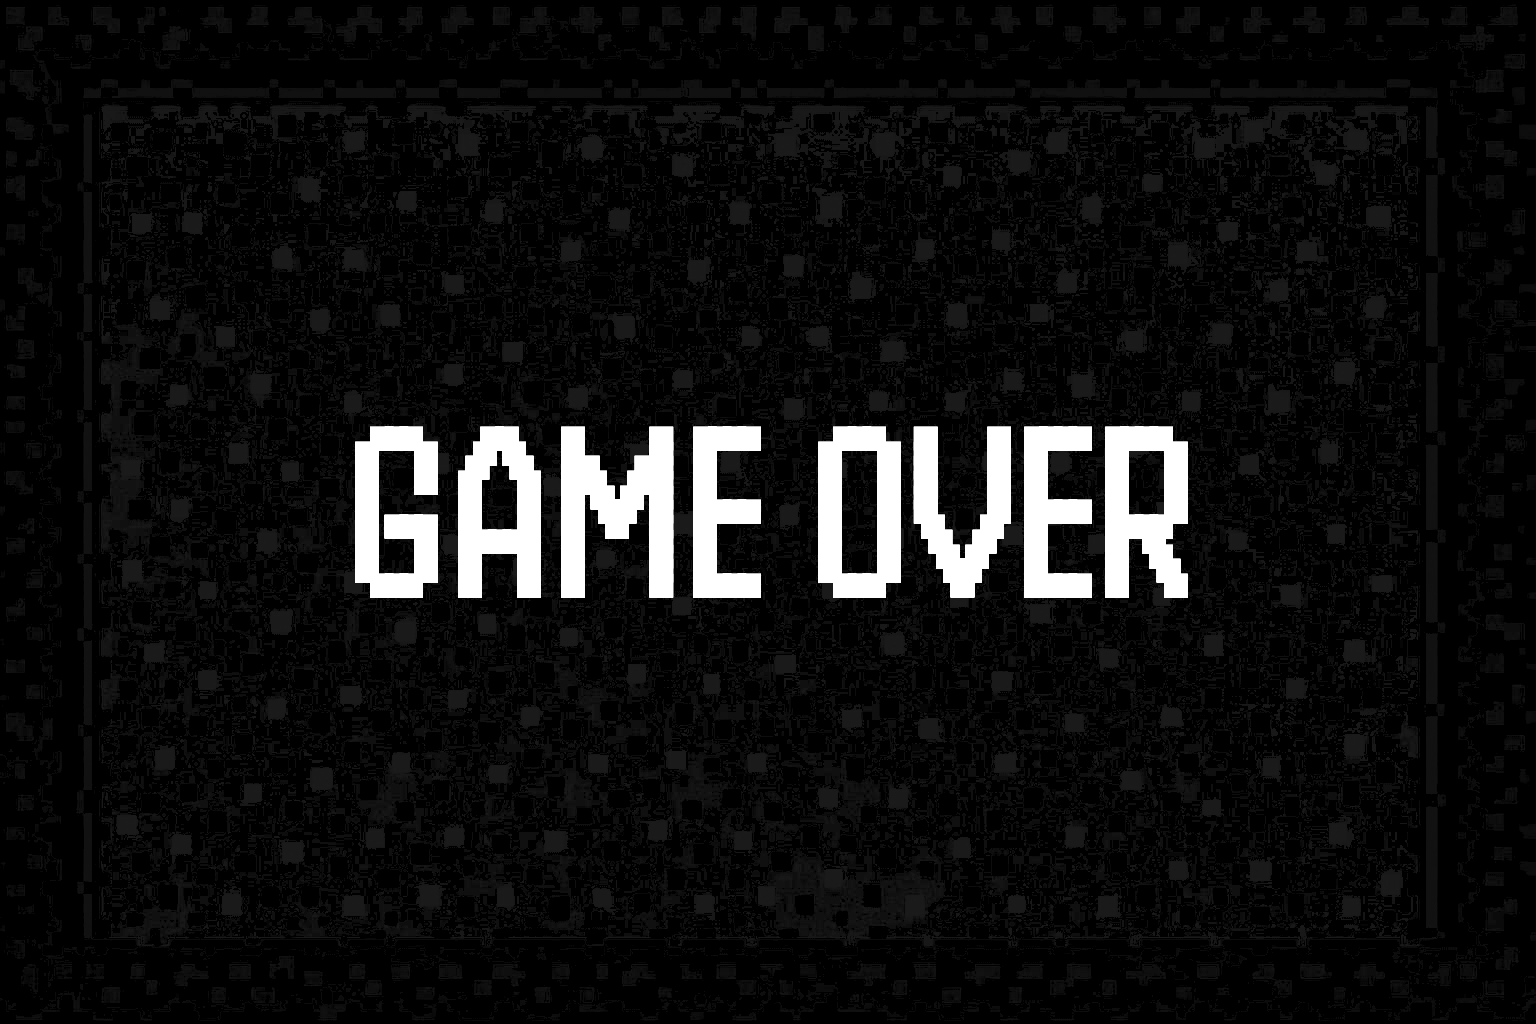
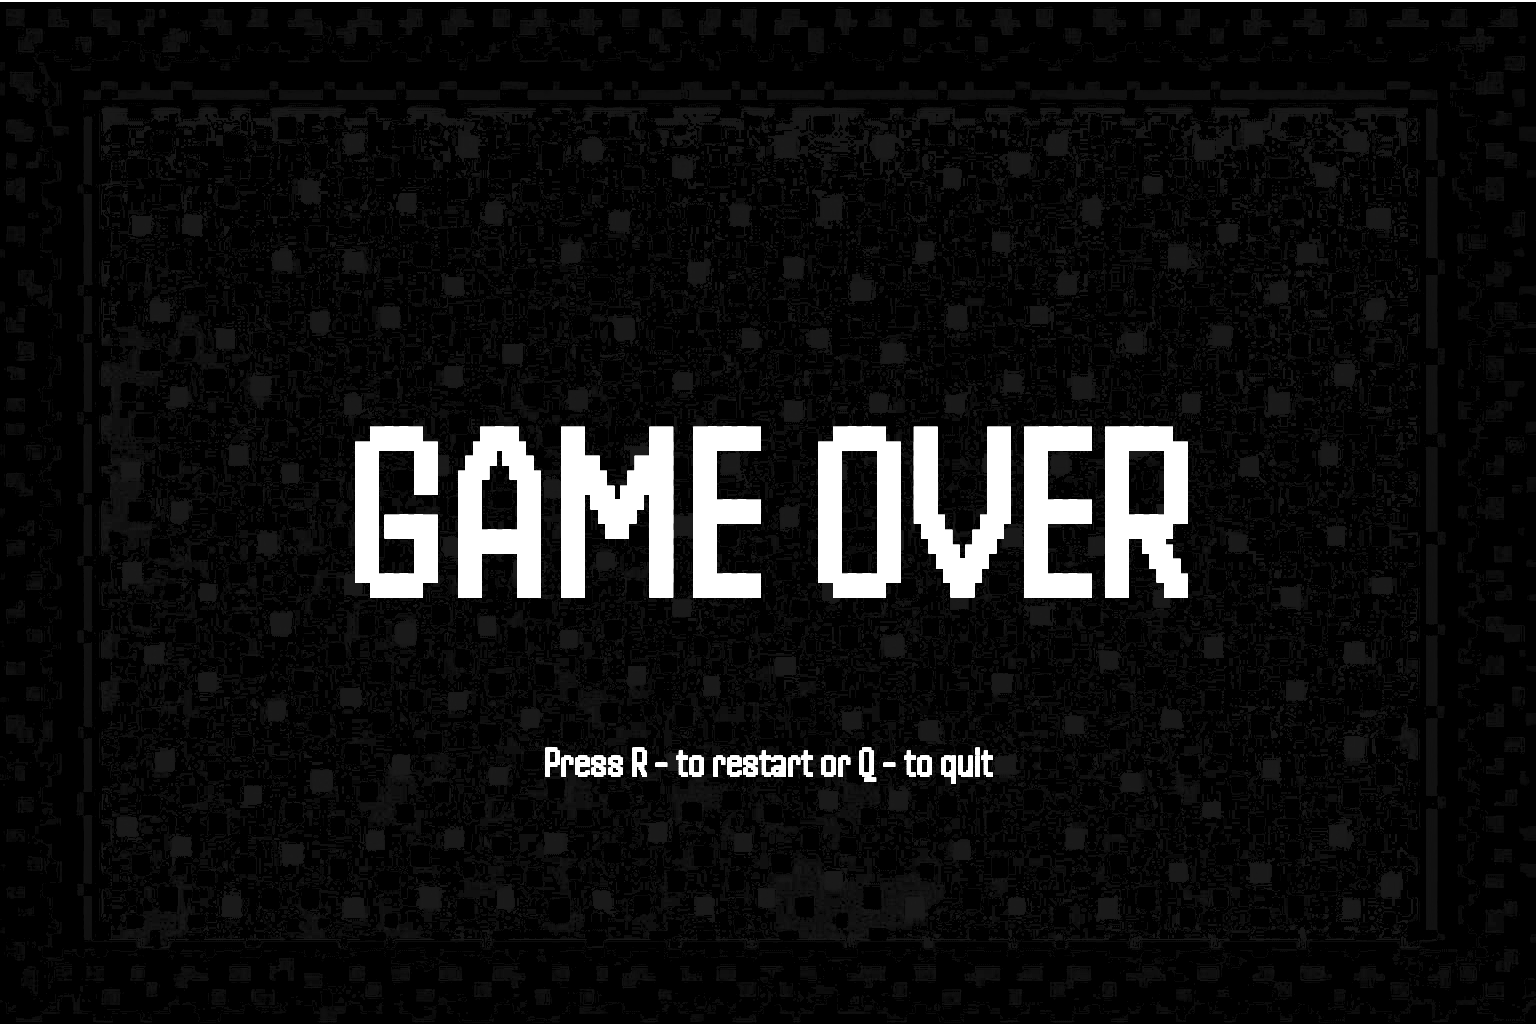
New images implemented, on gamastate, some corrections from the educators feedback

Changed region(s): [[0.3438, 0.7188, 0.6562, 0.7812], [0.5312, 0.125, 0.5625, 0.1562]]

diff --git a/src/com/codeforall/online/bullseye/game/GameState.java b/src/com/codeforall/online/bullseye/game/GameState.java
@@ -9,20 +9,22 @@ public class GameState {
 
     private Picture gameIntro;
     private Picture gameOver;
+    private Picture gameWin;
 
     public GameState() {
         this.gameIntro = new Picture(0,0, PREFIX +"introbackground.png");
         this.gameOver = new Picture(0,0, PREFIX + "gameoverbackground.png");
+        this.gameWin = new Picture(0,0, PREFIX + "youwin_bg.png");
     }
 
 
     public void displayIntro(Boolean show) {
 
-        if (show == true) {
+        if (show) {
             gameIntro.grow(-256, -128);
             gameIntro.translate(-256, -128);
 
-            //Ajusta o canvas
+            //Set the canvas size
             Canvas.setMaxX(gameIntro.getWidth() - 10);
             Canvas.setMaxY(gameIntro.getHeight() - 10);
 
@@ -38,11 +40,22 @@ public class GameState {
         gameOver.grow(-256, -128);
         gameOver.translate(-256, -128);
 
-        //Ajusta o canvas
+        //Set the canvas size
         Canvas.setMaxX(gameOver.getWidth() - 10);
         Canvas.setMaxY(gameOver.getHeight() - 10);
 
         gameOver.draw();
+    }
+
+    public void displayGameWin() {
+        gameWin.grow(-256, -128);
+        gameWin.translate(-256, -128);
+
+        //Set the canvas size
+        Canvas.setMaxX(gameWin.getWidth() - 10);
+        Canvas.setMaxY(gameWin.getHeight() - 10);
+
+        gameWin.draw();
     }
 
 

diff --git a/src/com/codeforall/online/bullseye/game/Game.java b/src/com/codeforall/online/bullseye/game/Game.java
@@ -6,7 +6,6 @@ import com.codeforall.online.bullseye.playables.target.Target;
 import com.codeforall.online.bullseye.playables.target.TargetFactory;
 import com.codeforall.simplegraphics.graphics.Color;
 import com.codeforall.simplegraphics.graphics.Text;
-import com.codeforall.simplegraphics.pictures.Picture;
 
 import java.util.ArrayList;
 import java.util.List;
@@ -18,7 +17,6 @@ public class Game {
     private List<Arrows> arrows = new ArrayList<>();
     private List<Target> targets = new ArrayList<>();
     private Player player;
-    private TargetFactory targetFactory;
     private int score = 0;
     private final int numberOfTargets = 10;
     private final int delay = 16;
@@ -27,7 +25,6 @@ public class Game {
     private Text arrowsText;
     private final int cooldownMs = 600;
     private long lastShotMs = -cooldownMs;
-    private Picture gameOver;
     private GameState gameState;
     public static final String PREFIX = "resources/";
 
@@ -71,7 +68,7 @@ public class Game {
         }
 
         if (targets.isEmpty()) {
-            showGameOver();
+            gameState.displayGameWin();
         } else if (maxArrows <= 0 && arrows.isEmpty()) {
             showGameOver();
         }

diff --git a/src/com/codeforall/online/bullseye/playables/arrows/Arrows.java b/src/com/codeforall/online/bullseye/playables/arrows/Arrows.java
@@ -17,12 +17,12 @@ public class Arrows extends Entity implements Collidables {
         setPicture();
         picture.grow(-50, -25);
         picture.translate(-50, -25);
-        picture.draw();
+        displayArrows(true);
         setSpeed();
     }
 
     public void removePicture(){
-        picture.delete();
+        displayArrows(false);
     }
 
     public void setPicture() {
@@ -53,12 +53,18 @@ public class Arrows extends Entity implements Collidables {
                 arrowPath = ArrowTypes.GREEN.getPath();
                 arrowSpeed = ArrowTypes.GREEN.getSpeed();
                 break;
-            case 2:
-            case 3:
-            case 4:
+            default:
                 arrowPath = ArrowTypes.RED.getPath();
                 arrowSpeed = ArrowTypes.RED.getSpeed();
                 break;
+        }
+    }
+
+    public void displayArrows(Boolean show) {
+        if (show) {
+            picture.draw();
+        } else {
+            picture.delete();
         }
     }
 

diff --git a/src/com/codeforall/online/bullseye/game/Arena.java b/src/com/codeforall/online/bullseye/game/Arena.java
@@ -69,7 +69,7 @@ public class Arena {
     }
 
     public void displayArena(Boolean show) {
-        if (true) {
+        if (show) {
             picture.draw();
         } else {
             picture.delete();
